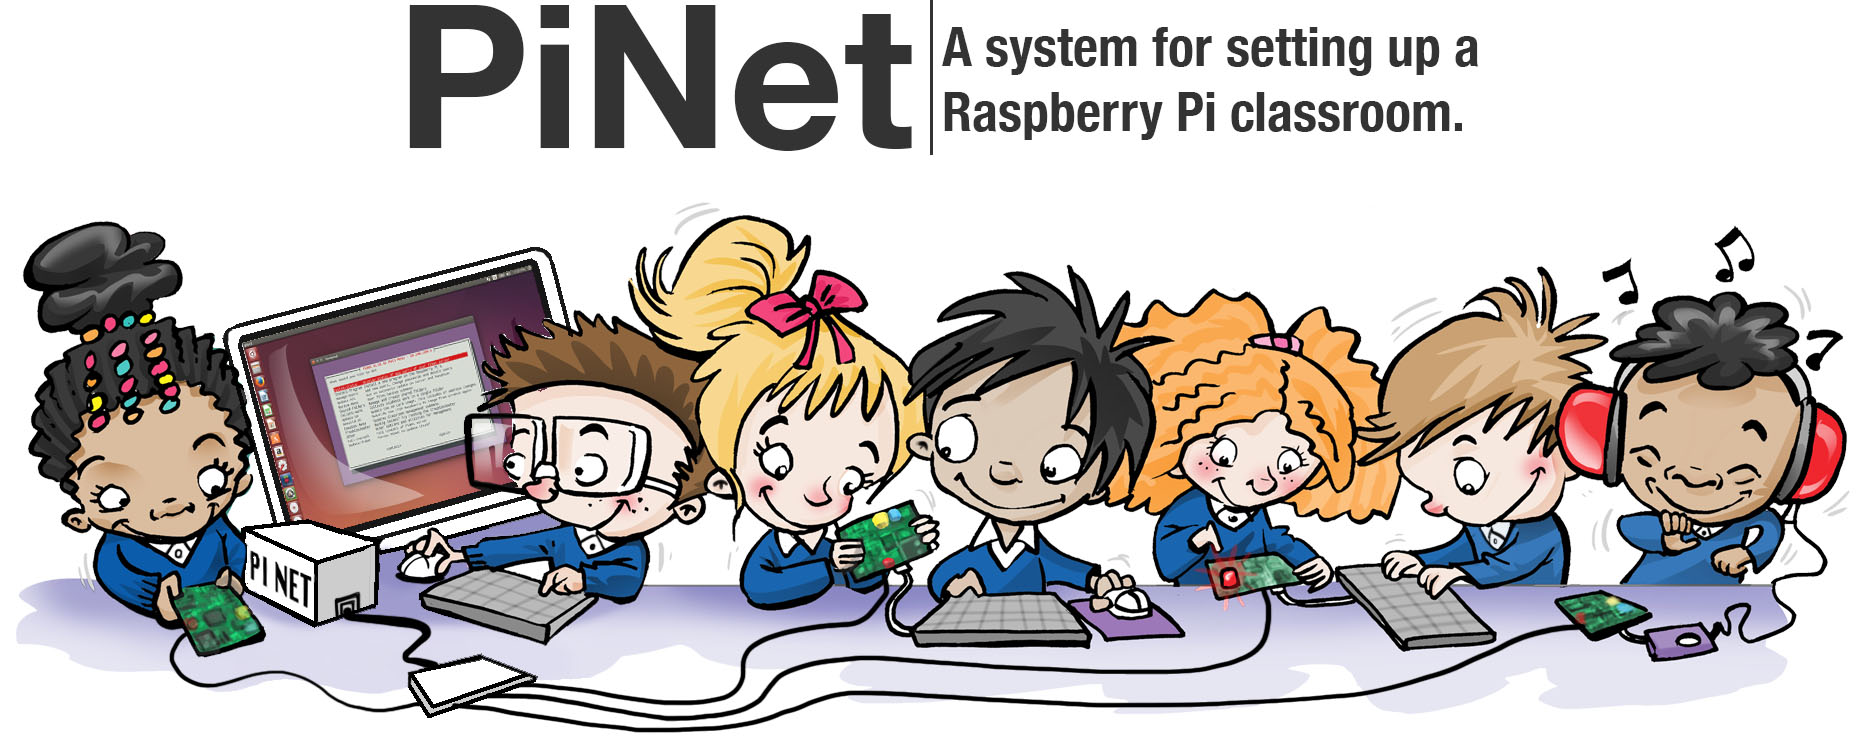
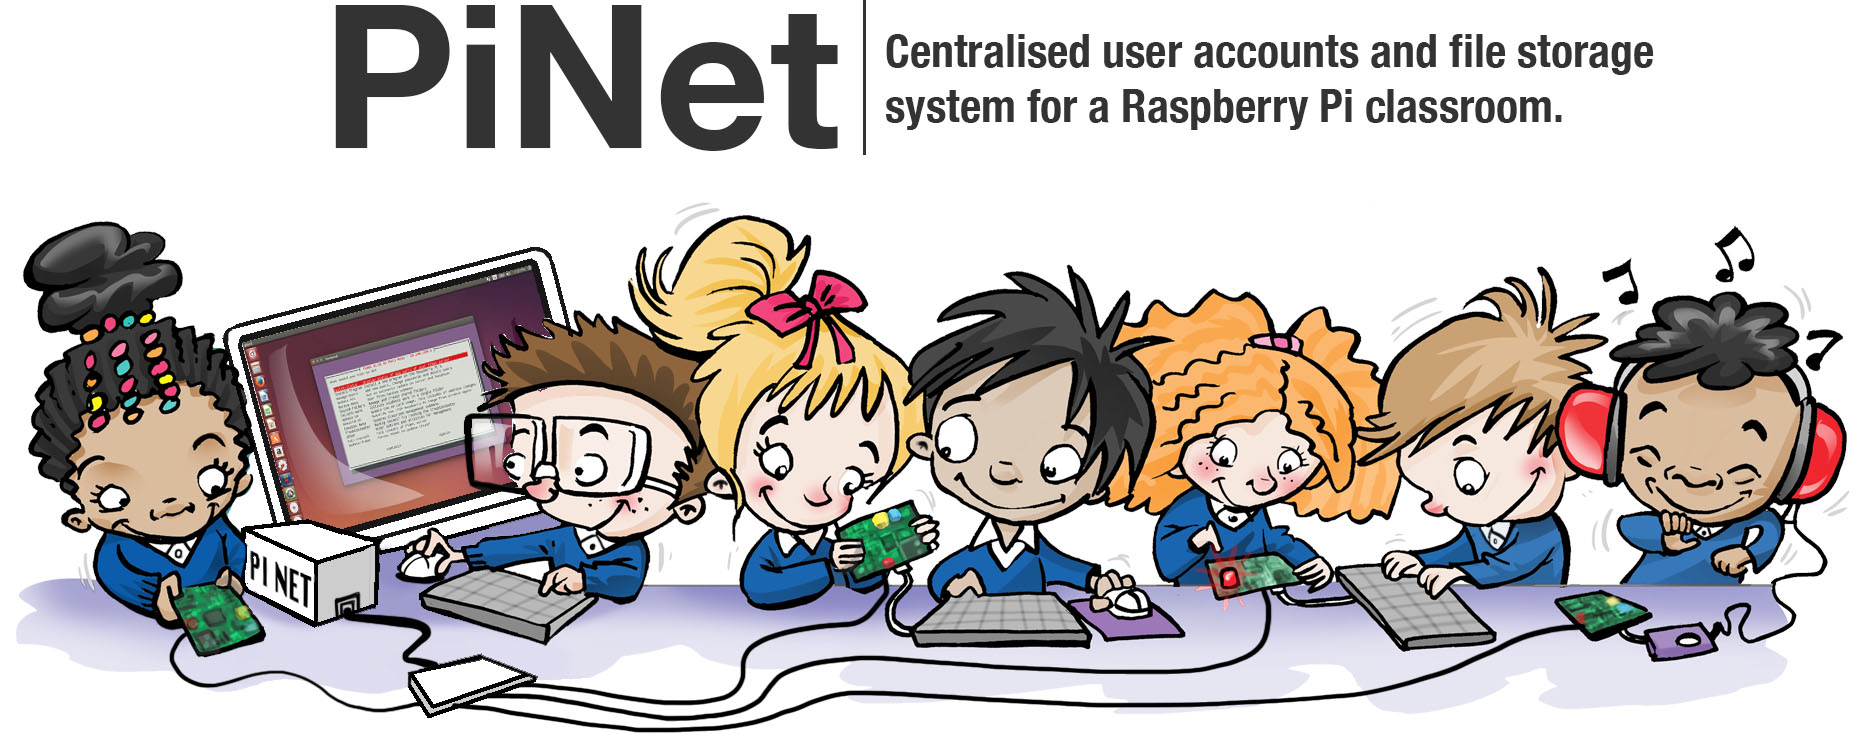
Updated tagline

Changed region(s): [[0.1562, 0.0, 0.9062, 0.2158]]

diff --git a/index.html b/index.html
@@ -9,7 +9,7 @@ layout: default
   </div>
   <div class='clear' style=''></div>
   <p style=''>
-    A system for setting up and managing a classroom set of Raspberry Pis.
+    Centralised user accounts and file storage system for a Raspberry Pi classroom.
   </p>
   <a class='btn btn-primary btn-large' href='/articles/installation/getting_started.html'>Get Started! »</a>
   <a class="btn btn-large" href="/articles/guides.html">Main Documentation »</a>

diff --git a/articles/sd-card-update.md b/articles/sd-card-update.md
@@ -1,6 +1,6 @@
 ---
-title: PiNet, A system for setting up and managing a classroom set of Raspberry Pis.
-layout: default
+title: "PiNet, a centralised user accounts and file storage system for a Raspberry Pi classroom."
+layout: article
 ---
 
 Updating the SD card image

diff --git a/articles/CONTRIBUTING.md b/articles/CONTRIBUTING.md
@@ -1,5 +1,5 @@
 ---
-title: "PiNet, a system for setting up and managing a classroom set of Raspberry Pis."
+title: "PiNet, a centralised user accounts and file storage system for a Raspberry Pi classroom."
 layout: article
 ---
 

diff --git a/articles/advanced/advanced.md b/articles/advanced/advanced.md
@@ -1,5 +1,5 @@
 ---
-title: "PiNet, a system for setting up and managing a classroom set of Raspberry Pis."
+title: "PiNet, a centralised user accounts and file storage system for a Raspberry Pi classroom."
 layout: article
 ---
 

diff --git a/articles/advanced/benchmarks.md b/articles/advanced/benchmarks.md
@@ -1,5 +1,5 @@
 ---
-title: "PiNet, a system for setting up and managing a classroom set of Raspberry Pis."
+title: "PiNet, a centralised user accounts and file storage system for a Raspberry Pi classroom."
 layout: article
 ---
 

diff --git a/articles/advanced/boot-files.md b/articles/advanced/boot-files.md
@@ -1,5 +1,5 @@
 ---
-title: "PiNet, a system for setting up and managing a classroom set of Raspberry Pis."
+title: "PiNet, a centralised user accounts and file storage system for a Raspberry Pi classroom."
 layout: article
 ---
 

diff --git a/articles/advanced/change-background.md b/articles/advanced/change-background.md
@@ -1,5 +1,5 @@
 ---
-title: "PiNet, a system for setting up and managing a classroom set of Raspberry Pis."
+title: "PiNet, a centralised user accounts and file storage system for a Raspberry Pi classroom."
 layout: article
 ---
 

diff --git a/articles/advanced/editing-outside.md b/articles/advanced/editing-outside.md
@@ -1,5 +1,5 @@
 ---
-title: "PiNet, a system for setting up and managing a classroom set of Raspberry Pis."
+title: "PiNet, a centralised user accounts and file storage system for a Raspberry Pi classroom."
 layout: article
 ---
 

diff --git a/articles/advanced/kernels.md b/articles/advanced/kernels.md
@@ -1,5 +1,5 @@
 ---
-title: "PiNet, a system for setting up and managing a classroom set of Raspberry Pis."
+title: "PiNet, a centralised user accounts and file storage system for a Raspberry Pi classroom."
 layout: article
 ---
 

diff --git a/articles/advanced/keyboard-layout.md b/articles/advanced/keyboard-layout.md
@@ -1,5 +1,5 @@
 ---
-title: "PiNet, a system for setting up and managing a classroom set of Raspberry Pis."
+title: "PiNet, a centralised user accounts and file storage system for a Raspberry Pi classroom."
 layout: article
 ---
 

diff --git a/articles/advanced/network-technologies.md b/articles/advanced/network-technologies.md
@@ -1,5 +1,5 @@
 ---
-title: "PiNet, a system for setting up and managing a classroom set of Raspberry Pis."
+title: "PiNet, a centralised user accounts and file storage system for a Raspberry Pi classroom."
 layout: article
 ---
 

diff --git a/articles/advanced/ssh-information.md b/articles/advanced/ssh-information.md
@@ -1,5 +1,5 @@
 ---
-title: "PiNet, a system for setting up and managing a classroom set of Raspberry Pis."
+title: "PiNet, a centralised user accounts and file storage system for a Raspberry Pi classroom."
 layout: article
 ---
 
